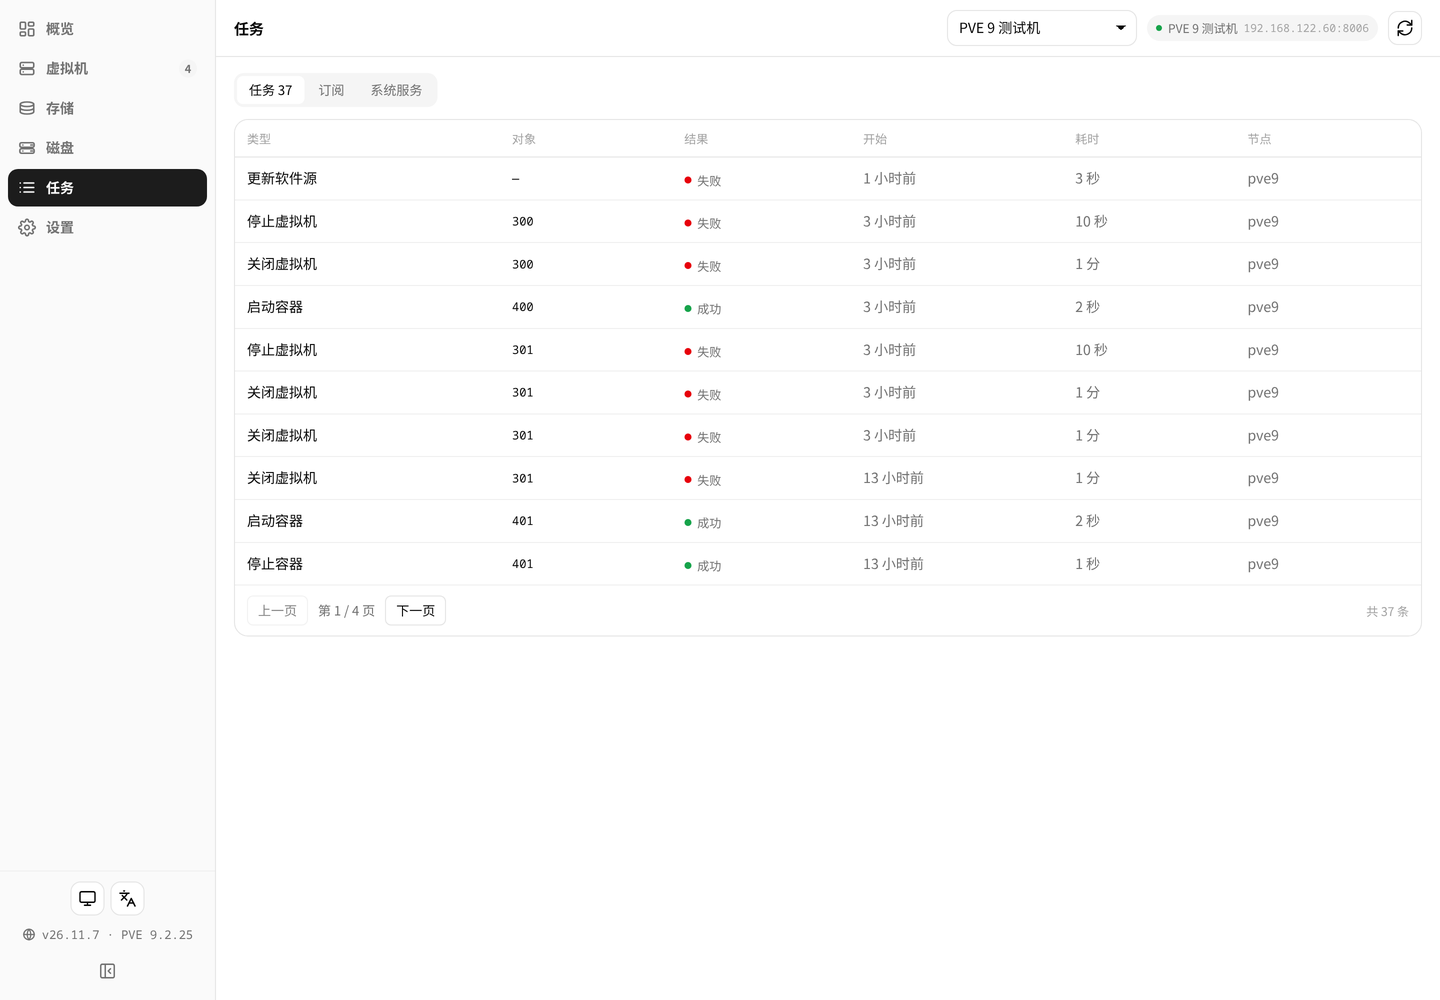
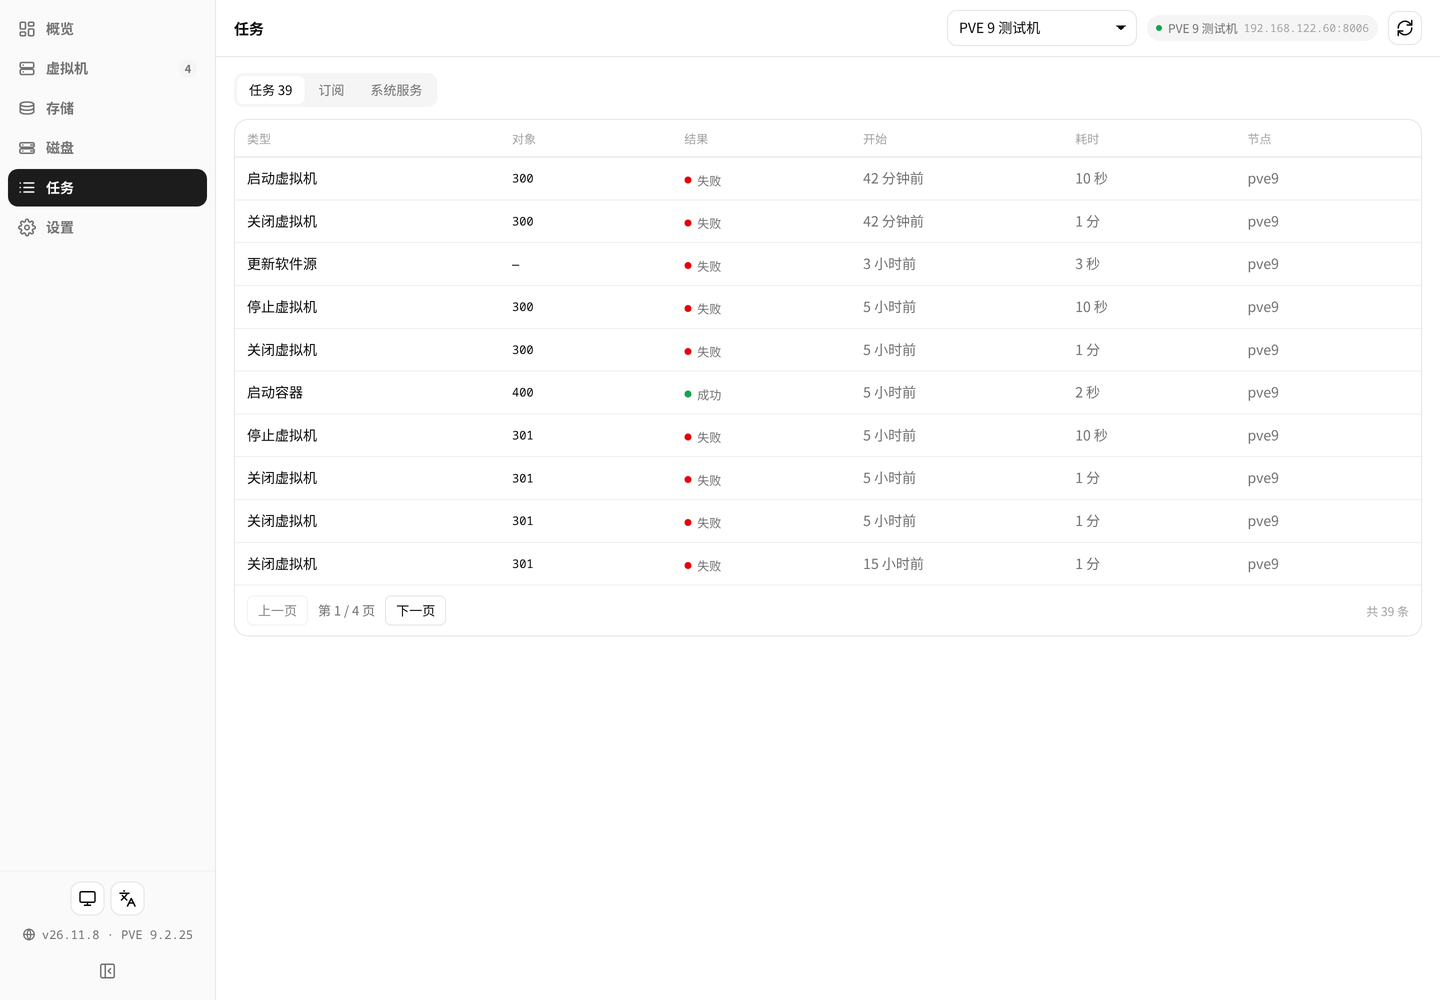
feat: 默认端口改为安装时随机 5 位，修 start 覆盖运行中端口
端口不再固定 8899（这个号常被占用）：首次启动时在 20000-59999 里随机挑一个空闲的，
写进 @appdata/fn-pvepanel/backend-port，之后一直用它 —— 重启、升级、重装都不变，
桌面入口与书签不会失效。

过程中修掉两个真 bug：

- 服务已在运行时执行 start 会重新计算端口并写进 runtime-ports.env，index.cgi 于是
  转发到一个没有进程的端口：页面打不开，但服务本身是健康的。端口文件现在只在真正
  拉起进程之前写一次。
- stop 会顺带清理没有 pid 记录的残留进程，避免旧进程占着端口让 status 误报运行中。

另外发现 appcenter 会把安装时的 BACKEND_PORT / wizard_backend_port 持久化并在每次启动
重放，所以这两个变量不能再作为端口来源，只有自己的记录文件可信。

安装向导不再询问端口；需要固定端口时传 BACKEND_PORT 覆盖（deploy.py 已支持）。
tools/deploy.py 与 shot.py 改为读取应用实际选中的端口。

diff --git a/tools/deploy.py b/tools/deploy.py
@@ -62,6 +62,17 @@ sudo appcenter-cli status "$APP" 2>&1 | tail -2 || true
 """
 
 
+# Positional args: 1=pkgvar  -- the port the lifecycle script remembered
+# @appdata is 0700 root:root, so an unprivileged test -r says nothing - the
+# same trap the log file had. Read it through sudo and let the emptiness speak.
+PORT_PROBE = r"""set -u
+VAR="$1"
+f="$VAR/backend-port"
+if sudo test -r "$f"; then sudo cat "$f" | tr -dc '0-9'; fi
+echo ""
+"""
+
+
 # Positional args: 1=app 2=port 3=pkgvar
 PROBE = r"""set -u
 APP="$1"; PORT="$2"; VAR="$3"
@@ -102,13 +113,28 @@ sudo env REQUEST_METHOD=GET \
 """
 
 
+def probe_remembered_port(host, var_dir):
+    """The port the lifecycle script saved, or 0 when there is none yet."""
+    res = C.ssh(host, PORT_PROBE, args=(var_dir,))
+    text = (res.out or "").strip().splitlines()
+    for line in text:
+        line = line.strip()
+        if line.isdigit():
+            value = int(line)
+            if 1 <= value <= 65535:
+                return value
+    return 0
+
+
 def main():
     C.setup_stdio()
     ap = argparse.ArgumentParser(description="Deploy fn-pvepanel fpk to fnOS")
     ap.add_argument("--host", default=C.HOST_DEFAULT)
     ap.add_argument("--fpk", default=None, help="fpk path (default: newest in output/)")
     ap.add_argument("--app", default=None, help="appname (default: read from the fpk manifest)")
-    ap.add_argument("--port", type=int, default=None, help="port to poll (default: service_port in manifest)")
+    ap.add_argument("--port", type=int, default=None,
+                    help="port to poll (default: the port the app remembered, "
+                         "falling back to service_port in the manifest)")
     ap.add_argument("--env", action="append", default=[], metavar="K=V",
                     help="wizard env, repeatable (default: wizard_backend_port=<port>)")
     ap.add_argument("--no-uninstall", action="store_true", help="do not stop/uninstall first (clean box)")
@@ -122,7 +148,10 @@ def main():
 
     man = C.fpk_manifest(fpk)
     app = args.app or man.get("appname") or "fn-pvepanel"
-    port = args.port or int(man.get("service_port") or 8899)
+    # service_port in the manifest is a port-conflict hint for the app centre,
+    # not the port the panel listens on (checkport=false, and the port is picked
+    # at first start). Never use it as the thing to poll.
+    port = args.port or 0
     paths = C.app_paths(app)
 
     env_pairs = []
@@ -130,11 +159,36 @@ def main():
         if "=" not in item:
             C.fail("--env expects KEY=VALUE, got %r" % item)
         env_pairs.append(tuple(item.split("=", 1)))
-    if not any(k == "wizard_backend_port" for k, _ in env_pairs):
-        env_pairs.insert(0, ("wizard_backend_port", str(port)))
+    # The panel now chooses a random free port unless the wizard is given one.
+    # For a reinstall we therefore reuse whatever the running app remembered,
+    # otherwise every deploy would move the port and the probe would fail.
+    explicit_port = args.port is not None
+    # An explicit BACKEND_PORT (or --port) always wins: that is the whole point
+    # of pinning. Otherwise reuse whatever the running app remembered, and if
+    # there is nothing remembered let the app pick.
+    pinned = any(k == "BACKEND_PORT" for k, _ in env_pairs)
+    if pinned:
+        for k, v in env_pairs:
+            if k == "BACKEND_PORT":
+                try:
+                    port = int(v)
+                except ValueError:
+                    C.fail("BACKEND_PORT must be a number, got %r" % v)
+        print("port   %d (pinned via --env BACKEND_PORT)" % port)
+    elif explicit_port:
+        print("port   %d (pinned via --port)" % port)
+        env_pairs.insert(0, ("BACKEND_PORT", str(port)))
+    else:
+        remembered = probe_remembered_port(args.host, paths["var"])
+        if remembered:
+            port = remembered
+            print("port   %d (remembered by the running app)" % port)
+        else:
+            print("port   random (the app will pick a free one)")
+            port = None
 
     print("deploy %s -> %s" % (os.path.basename(fpk), args.host))
-    print("app    %s   port %d" % (app, port))
+    print("app    %s   port %s" % (app, port if port else "auto"))
     print("env    " + " ".join("%s=%s" % kv for kv in env_pairs))
     print("")
 
@@ -162,6 +216,18 @@ def main():
     timer.lap("install")
 
     # Poll the port ourselves: appcenter-cli's rc is not a health signal.
+    # When no port was pinned the app picks one itself, so read it back first.
+    if port is None:
+        print("")
+        print("waiting for the app to publish its port ...")
+        for _ in range(40):
+            port = probe_remembered_port(args.host, paths["var"])
+            if port:
+                break
+            time.sleep(0.5)
+        if not port:
+            C.fail("the app did not publish a port under %s/backend-port" % paths["var"])
+        print("       picked port %d" % port)
     print("")
     print("waiting for http://127.0.0.1:%d/api/health ..." % port)
     deadline = time.time() + args.timeout

diff --git a/tools/shot.py b/tools/shot.py
@@ -190,13 +190,26 @@ def main():
     if not url:
         port = args.port
         if port is None:
-            fpk = C.newest_fpk()
-            port = 8899
-            if fpk:
-                try:
-                    port = int(C.fpk_manifest(fpk).get("service_port") or 8899)
-                except Exception:  # noqa: BLE001
-                    pass
+            # The panel picks a random free port at first start now, so ask the
+            # app what it chose instead of assuming a fixed number.
+            # @appdata is 0700 root:root -> read the port through sudo
+            res = C.ssh(args.host, 'set -u; f="$1/backend-port";'
+                                 ' if sudo test -r "$f"; then sudo cat "$f" | tr -dc 0-9; fi',
+                        args=(C.app_paths("fn-pvepanel")["var"],))
+            picked = ""
+            for line in (res.out or "").splitlines():
+                if line.strip().isdigit():
+                    picked = line.strip()
+            if picked:
+                port = int(picked)
+            else:
+                fpk = C.newest_fpk()
+                port = 8899
+                if fpk:
+                    try:
+                        port = int(C.fpk_manifest(fpk).get("service_port") or 8899)
+                    except Exception:  # noqa: BLE001
+                        pass
         url = "http://127.0.0.1:%d/" % port
 
     names = list(args.preset)

diff --git a/README.md b/README.md
@@ -102,14 +102,13 @@ Bark / Server 酱 / PushPlus / WxPusher / Telegram / 企业微信机器人 / 钉
 
 1. 到本仓库的 [Releases](../../releases) 页面下载最新的 `fn-pvepanel-<版本>-fnos-all.fpk`；
 2. 打开飞牛 fnOS → **应用中心** → **手动安装**，选择刚下载的 fpk；
-3. 安装向导会让你填面板端口（默认 **8899**，被占用时换一个即可）；
+3. 安装向导会让你填面板端口（留空即可，面板会自己在 20000–59999 里挑一个空闲端口）；
 4. 装好后飞牛桌面会出现 **PVEpanel** 图标，点开即用。
 
 ### 方式二：命令行安装
 
 ```bash
-printf 'wizard_backend_port=8899\n' > /tmp/pvepanel.env
-appcenter-cli install-fpk -e /tmp/pvepanel.env /path/to/fn-pvepanel-26.11.7-fnos-all.fpk
+appcenter-cli install-fpk /path/to/fn-pvepanel-26.11.7-fnos-all.fpk
 ```
 
 > `appcenter-cli` 安装时必须提供环境变量文件（`-e`）；它**不会覆盖已安装的同名应用**，
@@ -303,8 +302,8 @@ src/fn-pvepanel/
 ├── manifest                 # 应用元信息：包名、版本、端口、平台
 ├── ICON.PNG / ICON_256.PNG  # 应用图标（64 / 256）
 ├── config/                  # 运行身份（root）与应用文件夹声明
-├── wizard/                  # 安装向导（面板端口）
-├── cmd/main                 # 生命周期脚本：start / stop / status
+├── wizard/                  # 安装向导（说明端口是自动挑选的）
+├── cmd/main                 # 生命周期脚本：start / stop / status，并负责选端口
 └── app/
     ├── server/              # pvepanel.py（HTTP 服务与路由）、collector.py（采集与缓存）、
     │                        # pveclient.py（连接池）、store.py（配置与 Token）、
@@ -322,6 +321,20 @@ python tools/build_fpk.py     # 结构检查 → 打包
 python tools/deploy.py        # 卸载旧版 → 装新版 → 起服务 → 探活
 python tools/preflight.py     # 跑齐 CI 的全部闸门
 ```
+
+### 端口
+
+面板的端口不是固定值：首次启动时在 **20000–59999** 里随机挑一个当前空闲的，
+写进 `@appdata/fn-pvepanel/backend-port`，之后一直使用（重启、升级、重装都不变）。
+这样不会和 8899 这类常用端口撞车，也少一个可枚举的入口。
+
+需要固定端口时（例如做可重复的部署），显式传环境变量即可覆盖：
+
+```bash
+python tools/deploy.py --env BACKEND_PORT=25000
+```
+
+> 内置的 `deploy.py` / `shot.py` 会自动读取这个文件，不需要手动指定端口。
 
 ---
 

diff --git a/README_EN.md b/README_EN.md
@@ -103,14 +103,13 @@ Mobile (390px):
 
 1. Download the latest `fn-pvepanel-<version>-fnos-all.fpk` from [Releases](../../releases);
 2. fnOS → **App Center** → **Manual install** → pick the file;
-3. The wizard asks for the panel port (default **8899**);
+3. The wizard asks for the panel port (leave it empty — the panel picks a free port in 20000–59999);
 4. A **PVEpanel** icon appears on the fnOS desktop.
 
 ### Option 2: install from the command line
 
 ```bash
-printf 'wizard_backend_port=8899\n' > /tmp/pvepanel.env
-appcenter-cli install-fpk -e /tmp/pvepanel.env /path/to/fn-pvepanel-26.11.7-fnos-all.fpk
+appcenter-cli install-fpk /path/to/fn-pvepanel-26.11.7-fnos-all.fpk
 ```
 
 > `appcenter-cli` requires the environment file (`-e`) and **will not overwrite an installed app** —
@@ -318,8 +317,8 @@ src/fn-pvepanel/
 ├── manifest                 # package name, version, port, platform
 ├── ICON.PNG / ICON_256.PNG  # application icons (64 / 256)
 ├── config/                  # run-as identity (root), shared-folder declaration
-├── wizard/                  # install wizard (panel port)
-├── cmd/main                 # lifecycle script: start / stop / status
+├── wizard/                  # install wizard (explains the automatic port)
+├── cmd/main                 # lifecycle: start / stop / status, picks the port too
 └── app/
     ├── server/              # pvepanel.py (HTTP + routes), collector.py (collection + cache),
     │                        # pveclient.py (connection pool), store.py (config + tokens),
@@ -337,6 +336,21 @@ python tools/build_fpk.py     # structure check, then package
 python tools/deploy.py        # uninstall, install, start, probe
 python tools/preflight.py     # run every CI gate locally
 ```
+
+### Port
+
+The panel does not use a fixed port. On first start it picks a free one in
+**20000–59999**, stores it in `@appdata/fn-pvepanel/backend-port`, and keeps using it
+across restarts, upgrades and reinstalls. That avoids colliding with common ports such as
+8899 and removes one enumerable entry point.
+
+To pin a port (for reproducible deployments) override it explicitly:
+
+```bash
+python tools/deploy.py --env BACKEND_PORT=25000
+```
+
+> The bundled `deploy.py` / `shot.py` read that file themselves — no port needed.
 
 ---
 

diff --git a/CHANGELOG.md b/CHANGELOG.md
@@ -1,5 +1,21 @@
 # 更新日志
 
+## 26.11.8
+
+**改进**
+
+- **默认端口改为安装时随机的 5 位数**：不再固定 8899（这个号常被别的服务占用）。
+  首次启动时随机挑一个当前空闲的 20000–59999 端口，**之后一直用它**——记在
+  `@appdata/fn-pvepanel/backend-port`，重启、升级、重装都不会变，桌面入口和书签不会失效。
+  安装向导不再询问端口；需要用固定端口时，部署脚本显式传 `BACKEND_PORT` 即可覆盖。
+
+**修复**
+
+- 服务已在运行时执行 `start` 会重新计算端口并写进 `runtime-ports.env`，导致
+  `index.cgi` 转发到一个实际没有进程的端口（页面打不开，但服务本身是健康的）。
+  现在端口文件只在真正拉起进程之前写一次，运行中不做任何改动。
+- `stop` 会顺带清理没有 pid 记录的残留进程，避免旧进程占着端口让 `status` 误报为运行中。
+
 ## 26.11.7
 
 首个公开版本。
